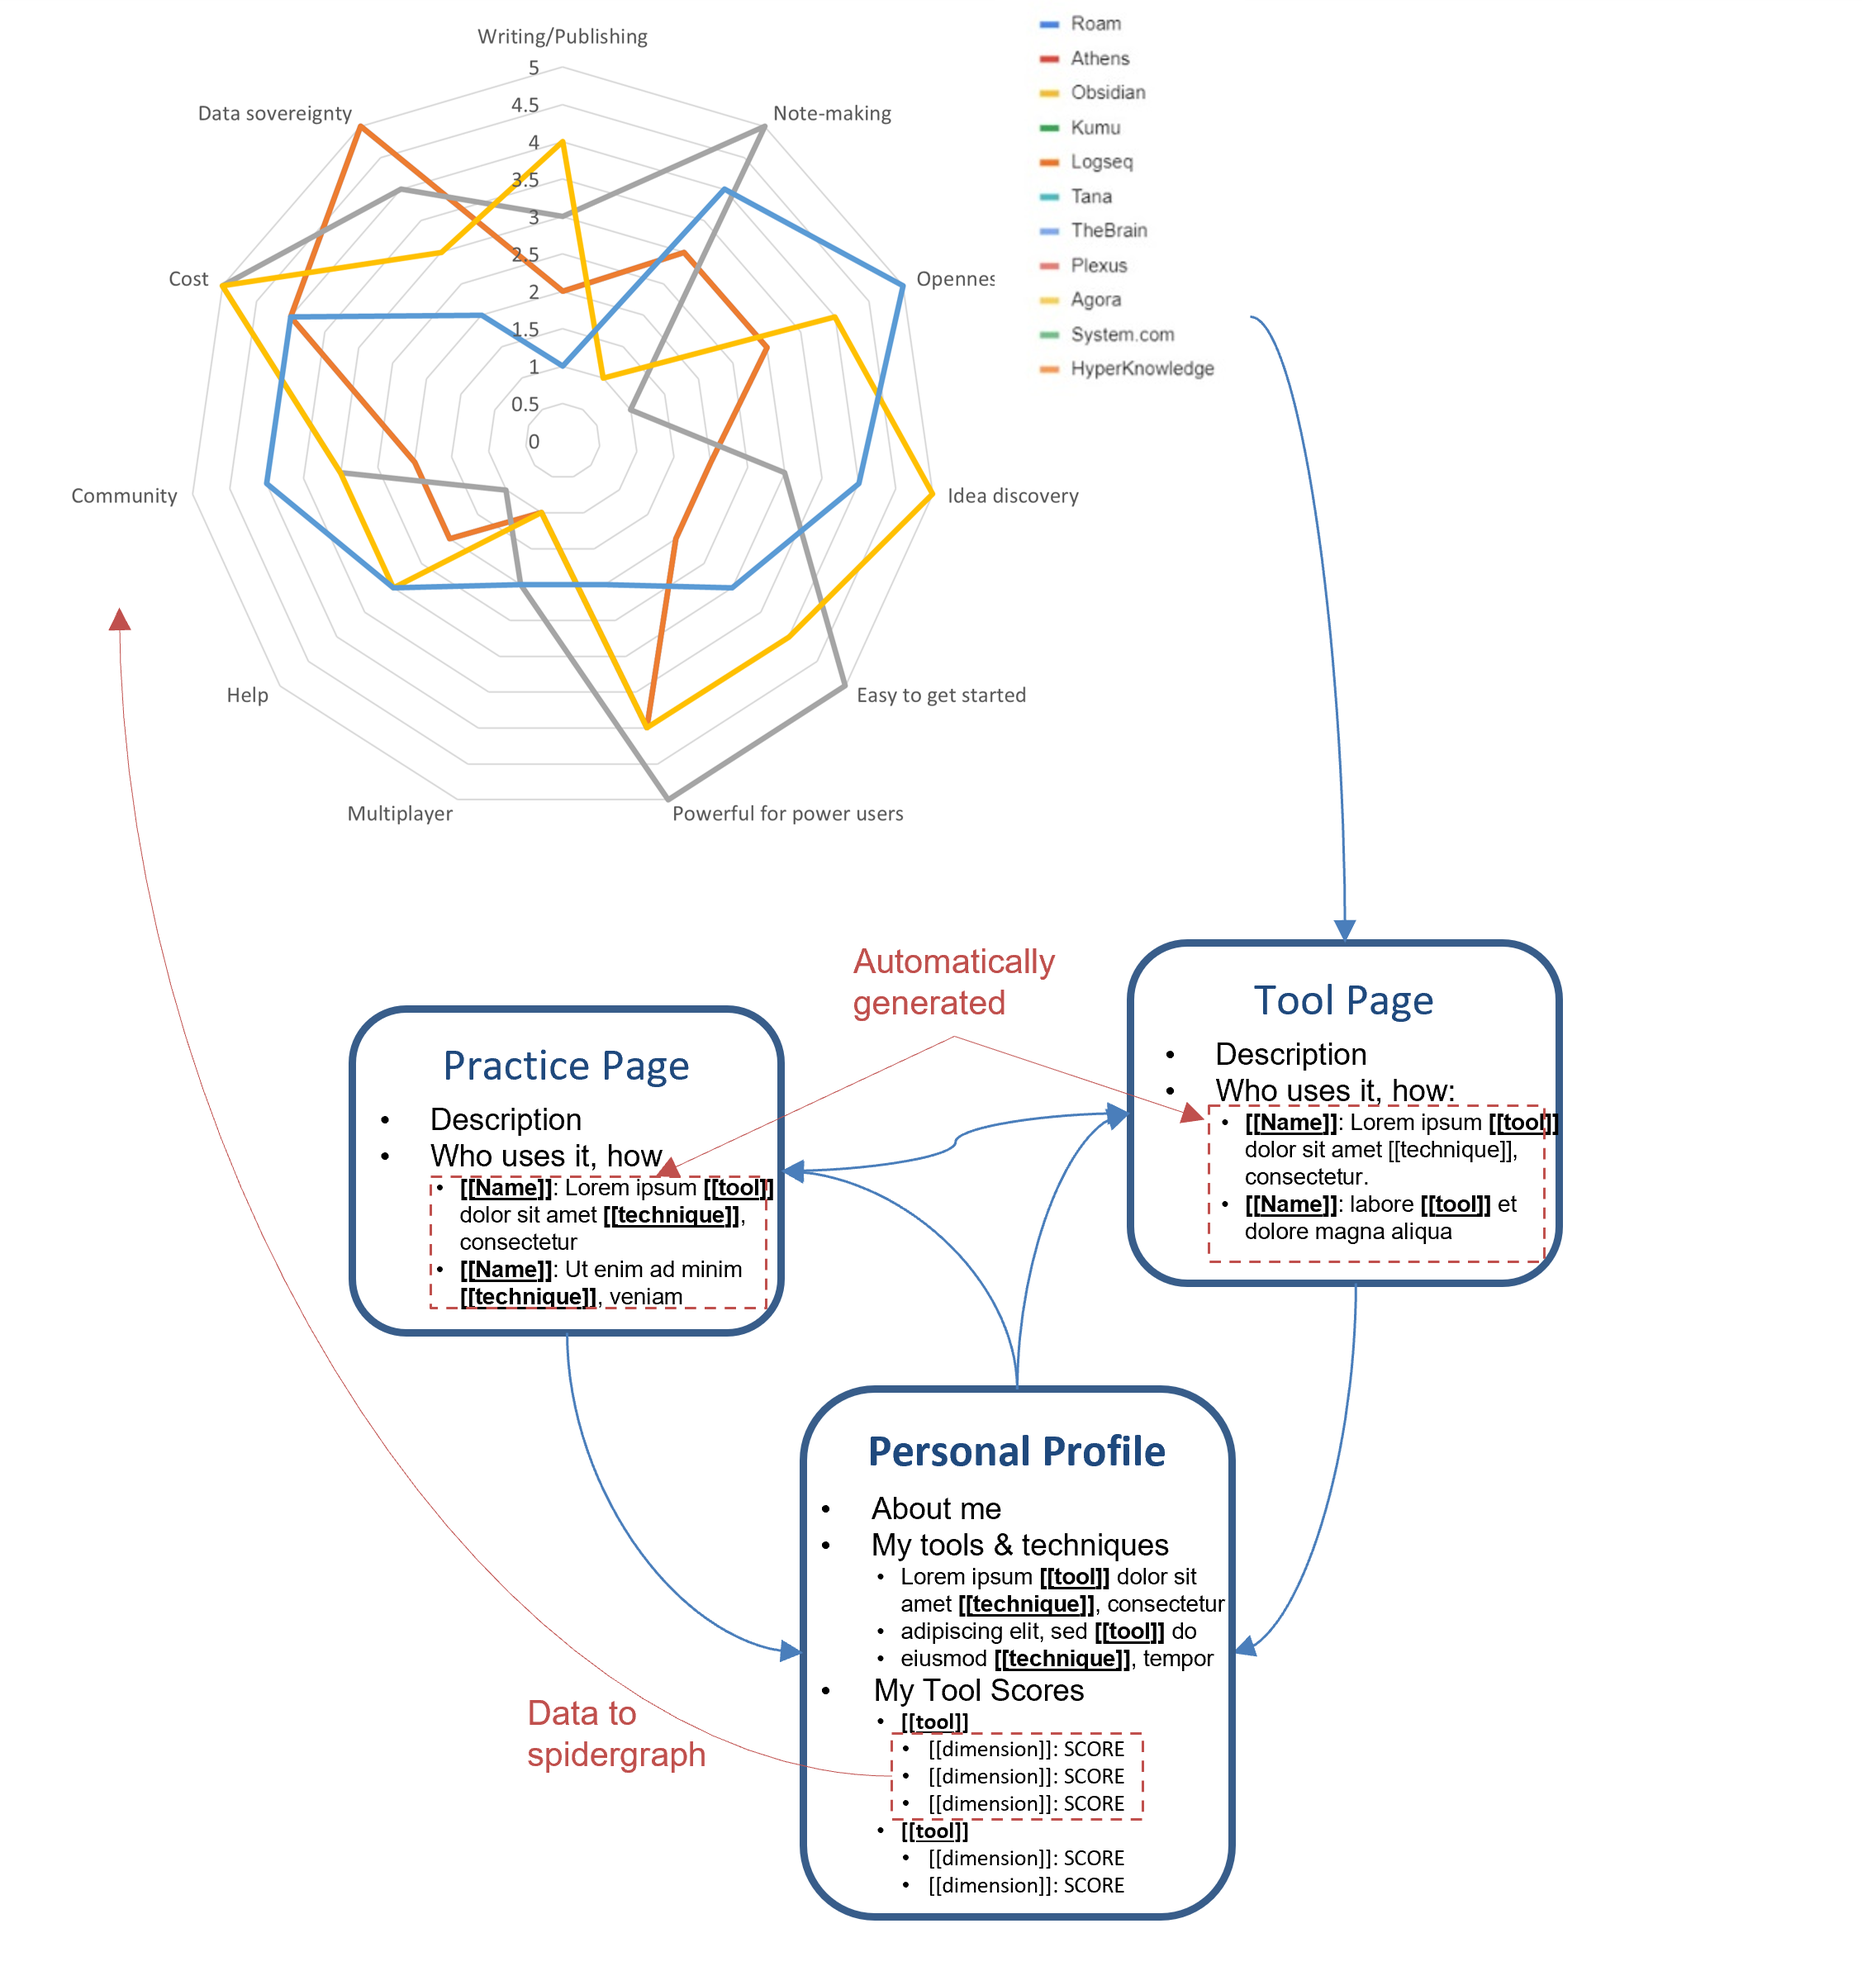
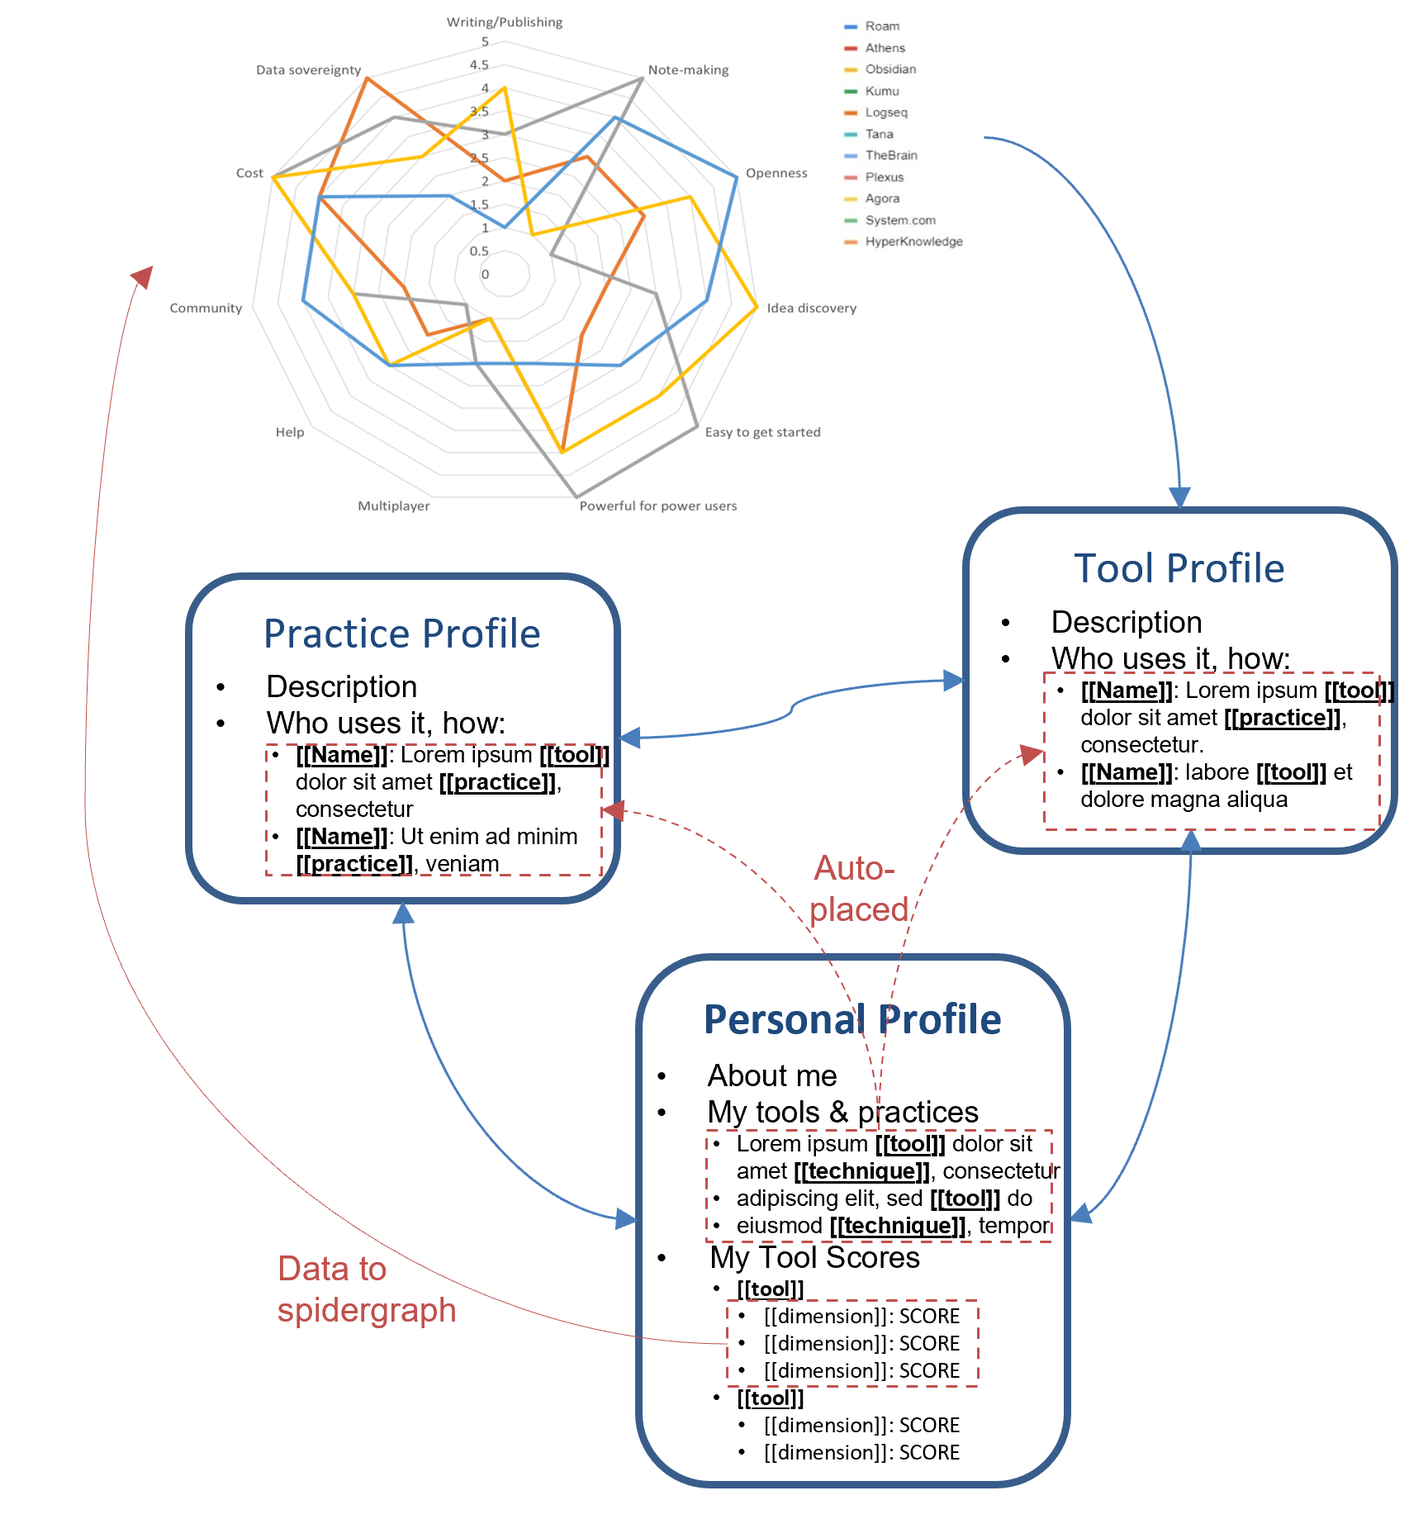
Recommended resources

diff --git a/project/Adding Recommended Resources.md b/project/Adding Recommended Resources.md
@@ -1,0 +1,38 @@
+It's been suggested that the information architecture needs a fourth content type: **Recommended Resources**, defined (roughly, for now) as a useful resource for using a tool and/or practice, or combining them together, etc. Typical Resources would probably include blog posts, online courses, books, videos, etc.
+
+How might that look?
+
+## Today
+
+Currently, as set out in [[About this project]], the information architecture looks like this:
+![[tft-map-architecture-v1.png]]
+
+In brief, members submit their personal profiles (appearing in [[People]]), and if they wish contribute to the descriptions of [[Tools]] and/or [[Practices]] (none of these 3 indexes are shown in the image, btw). Massive.wiki plus some custom code then automatically links them together and:
+
+* automatically takes the scores provided by tool users to create an aggregated spidergraph, which provides a sort of "executive summary" entry point, setting out the community's averaged consensus of thinking tools across 11 or so dimensions (we'd love your opinions on these dimensions - see [[How we measure thinking tools]])
+* embeds content from each People profile into the corresponding Tools and Practice profiles, transforming the latter into zettelkasten overviews, each providing an "about this tool/practise" text and an automatically created index of "*who uses this tool/practise, and how*"
+
+## Tomorrow?
+
+There are different ways of doing this.
+
+### a) Separate Resource items
+
+![[tft-map-architecture-v2-resources-a.png]]
+
+* How it works:
+	* Member submits a file following a "Recommended Resource" template
+	* a link to it, along with some key content*, appears wherever relevant: the Member's Profile (if existent), relevant Tools and Practices, etc,
+		* **key content includes the any URL** provided in the Recommended Resource, so users can go from a Tool/Practice profile straight to the destination URL, rather than passing through the Resource file
+* Key advantages - Members can: 
+	* if they wish, submit just Resources - they'll appear wherever relevant (as well as in a Resources menu, not shown); 
+	* add plenty of detail about the Resource in the description within the file
+* Key disadvantage: quite often all that's actually needed is a URL, so having to submit a file just in order to submit a URL looks like overkill 
+
+
+### b) Bullet points in the Personal Profile
+
+In this picture, the member includes Recommended Resources as bullet points in his/her People Profile, and the TfTMap builder embeds them wherever relevant. Overall I think this is the better choice, although it probably does (or should) limit the amount of value the member can add to just a few words.
+![[tft-map-architecture-v2-resources-b.png]]
+
+
